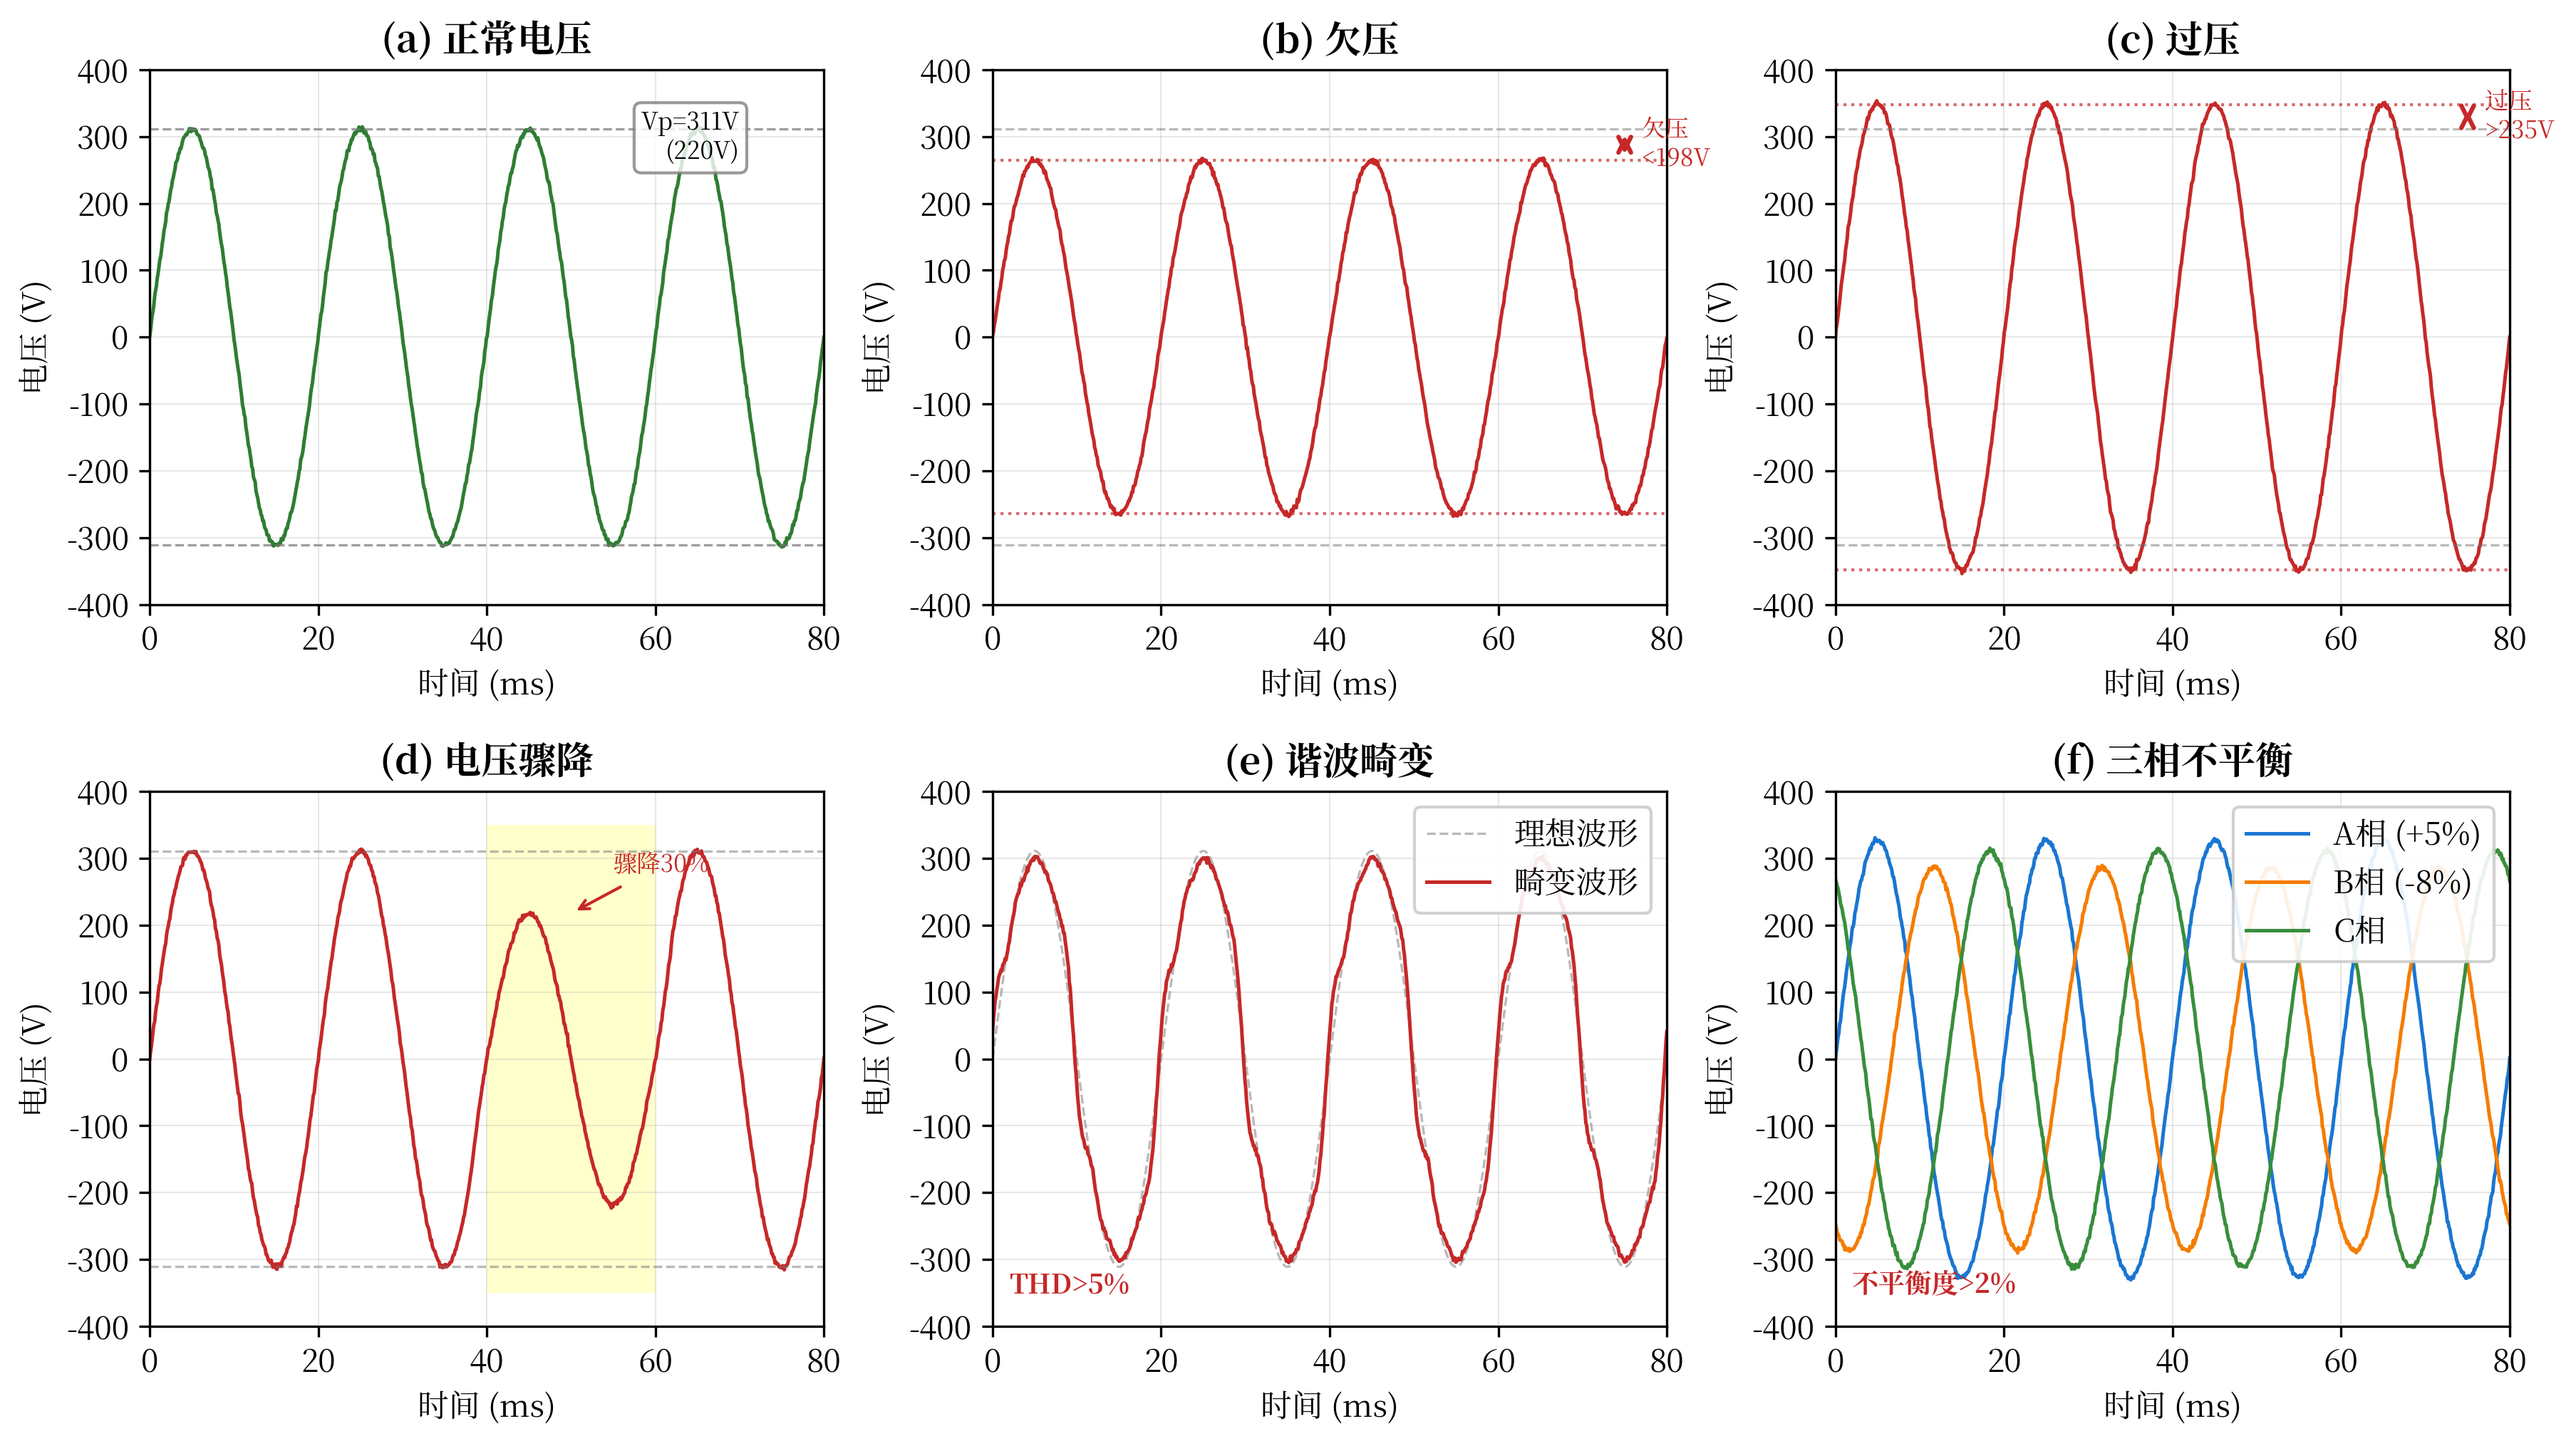
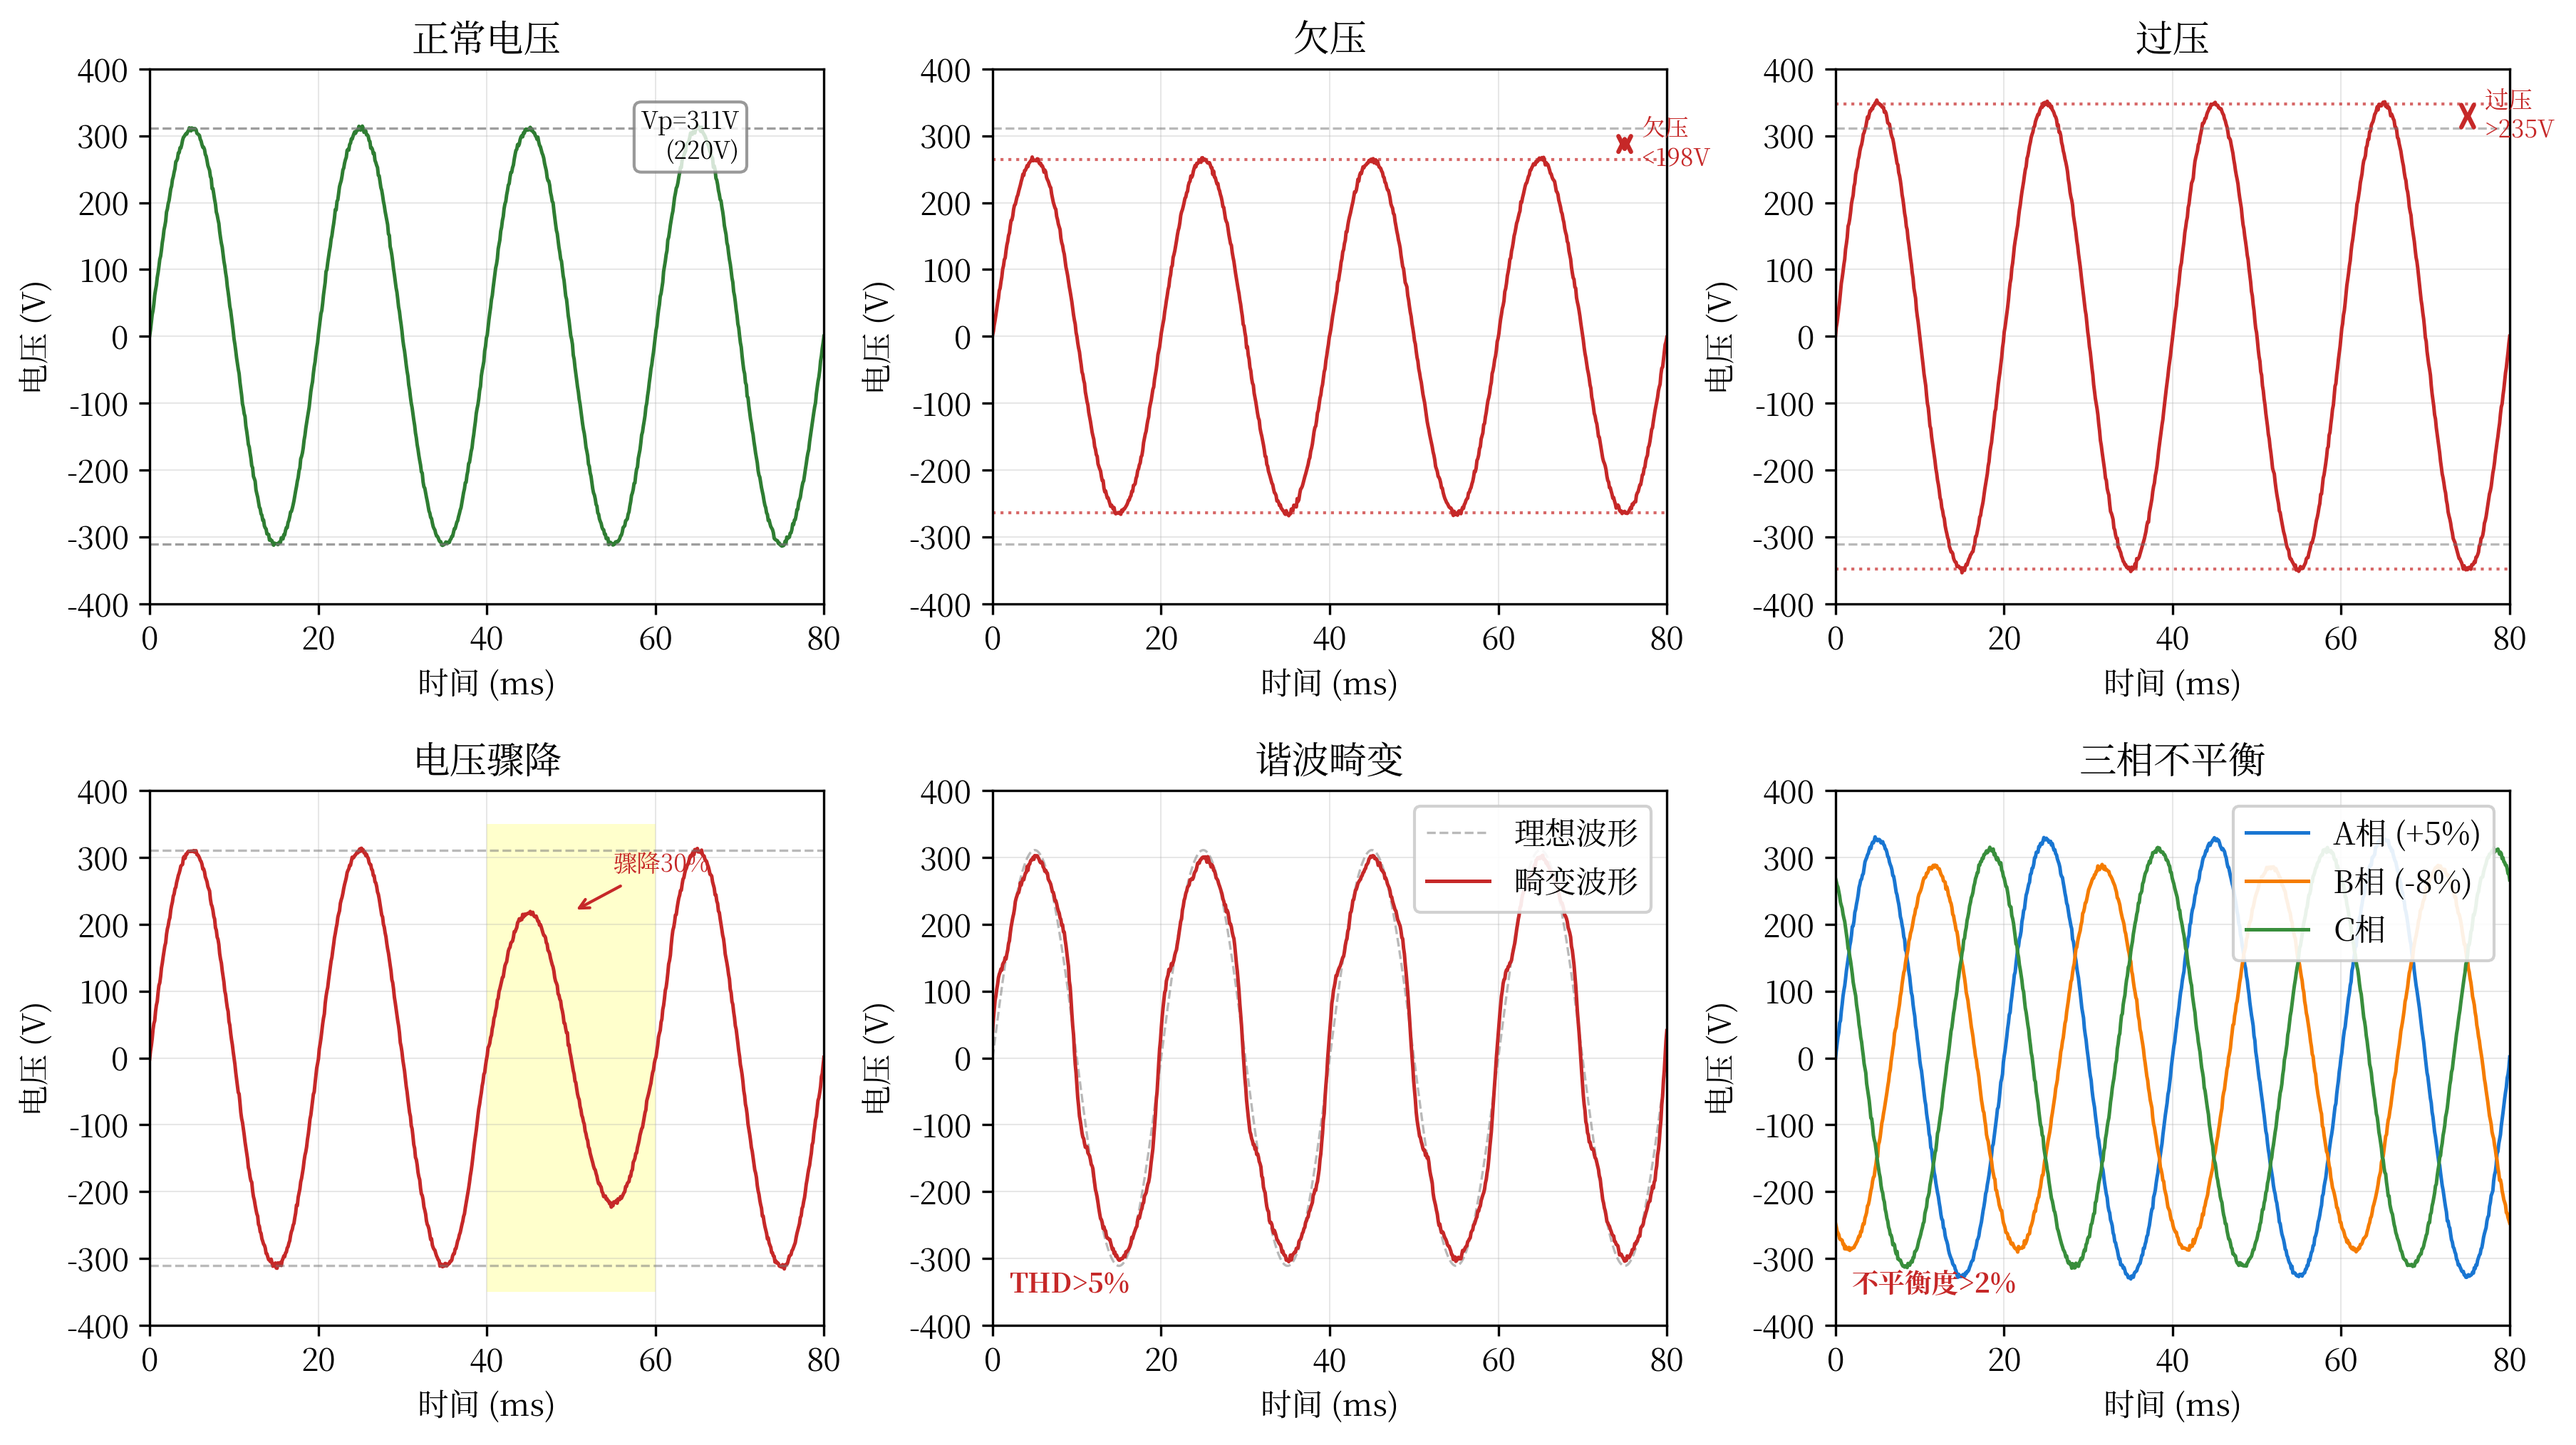
feat(exp): 更新实验脚本 fig_2_2_voltage_anomaly_types.png

diff --git a/code/figures/scripts/chap2/fig_2_2_voltage_anomaly_types.py b/code/figures/scripts/chap2/fig_2_2_voltage_anomaly_types.py
@@ -131,7 +131,7 @@ def main():
     ax.axhline(y=-220*np.sqrt(2), color=reference_color, linestyle='--', linewidth=0.8, alpha=0.7)
     ax.set_xlabel('时间 (ms)')
     ax.set_ylabel('电压 (V)')
-    ax.set_title('(a) 正常电压', fontweight='bold')
+    ax.set_title('正常电压')
     ax.set_xlim([0, 80])
     ax.set_ylim([-400, 400])
     ax.text(70, 340, 'Vp=311V\n(220V)', fontsize=8, ha='right', va='top',
@@ -147,7 +147,7 @@ def main():
     ax.axhline(y=-187*np.sqrt(2), color=anomaly_color, linestyle=':', linewidth=1, alpha=0.7)
     ax.set_xlabel('时间 (ms)')
     ax.set_ylabel('电压 (V)')
-    ax.set_title('(b) 欠压', fontweight='bold')
+    ax.set_title('欠压')
     ax.set_xlim([0, 80])
     ax.set_ylim([-400, 400])
     ax.annotate('', xy=(75, 187*np.sqrt(2)), xytext=(75, 220*np.sqrt(2)),
@@ -165,7 +165,7 @@ def main():
     ax.axhline(y=-246*np.sqrt(2), color=anomaly_color, linestyle=':', linewidth=1, alpha=0.7)
     ax.set_xlabel('时间 (ms)')
     ax.set_ylabel('电压 (V)')
-    ax.set_title('(c) 过压', fontweight='bold')
+    ax.set_title('过压')
     ax.set_xlim([0, 80])
     ax.set_ylim([-400, 400])
     ax.annotate('', xy=(75, 246*np.sqrt(2)), xytext=(75, 220*np.sqrt(2)),
@@ -183,7 +183,7 @@ def main():
     ax.add_patch(sag_region)
     ax.set_xlabel('时间 (ms)')
     ax.set_ylabel('电压 (V)')
-    ax.set_title('(d) 电压骤降', fontweight='bold')
+    ax.set_title('电压骤降')
     ax.set_xlim([0, 80])
     ax.set_ylim([-400, 400])
     ax.annotate('骤降30%', xy=(50, 154*np.sqrt(2)), xytext=(55, 280),
@@ -198,7 +198,7 @@ def main():
     ax.plot(t * 1000, voltage_harmonic, color=anomaly_color, linewidth=1.2, label='畸变波形')
     ax.set_xlabel('时间 (ms)')
     ax.set_ylabel('电压 (V)')
-    ax.set_title('(e) 谐波畸变', fontweight='bold')
+    ax.set_title('谐波畸变')
     ax.set_xlim([0, 80])
     ax.set_ylim([-400, 400])
     ax.legend(loc='upper right', framealpha=0.9)
@@ -212,7 +212,7 @@ def main():
     ax.plot(t * 1000, vc, color=phase_colors[2], linewidth=1.2, label='C相')
     ax.set_xlabel('时间 (ms)')
     ax.set_ylabel('电压 (V)')
-    ax.set_title('(f) 三相不平衡', fontweight='bold')
+    ax.set_title('三相不平衡')
     ax.set_xlim([0, 80])
     ax.set_ylim([-400, 400])
     ax.legend(loc='upper right', framealpha=0.9, ncol=1)
